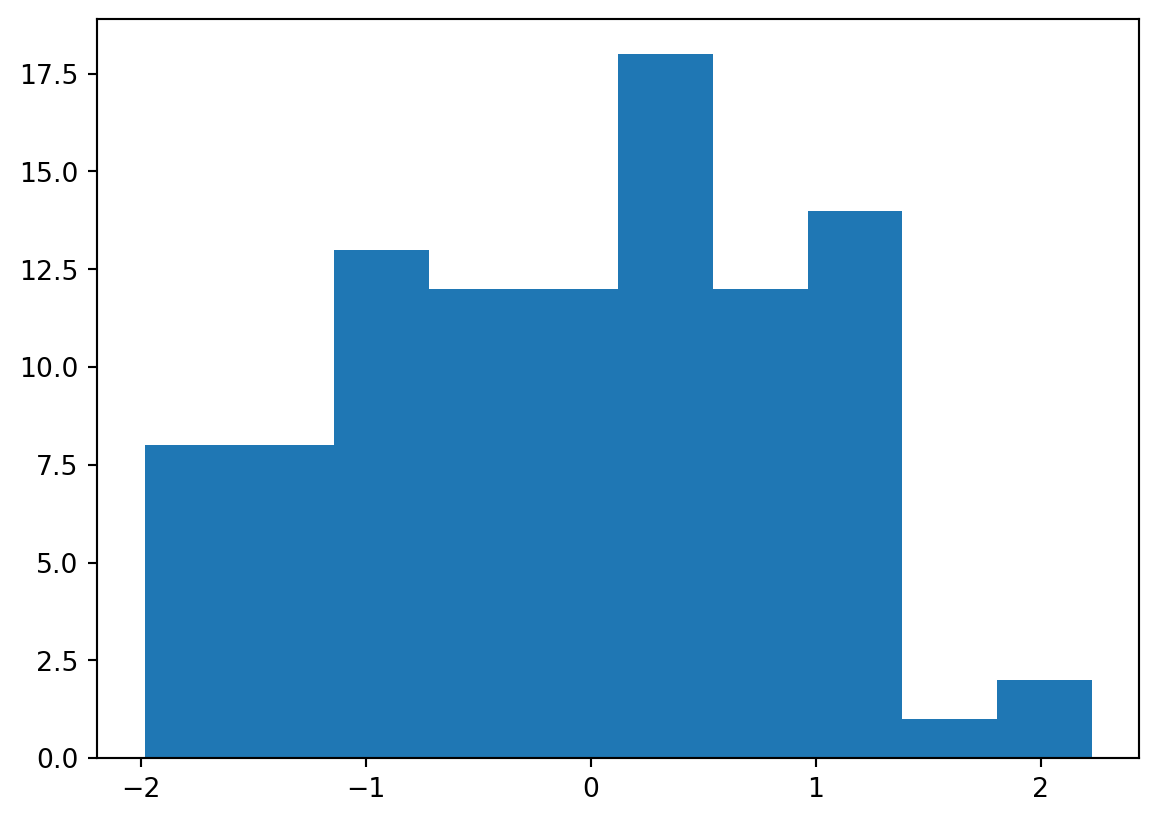
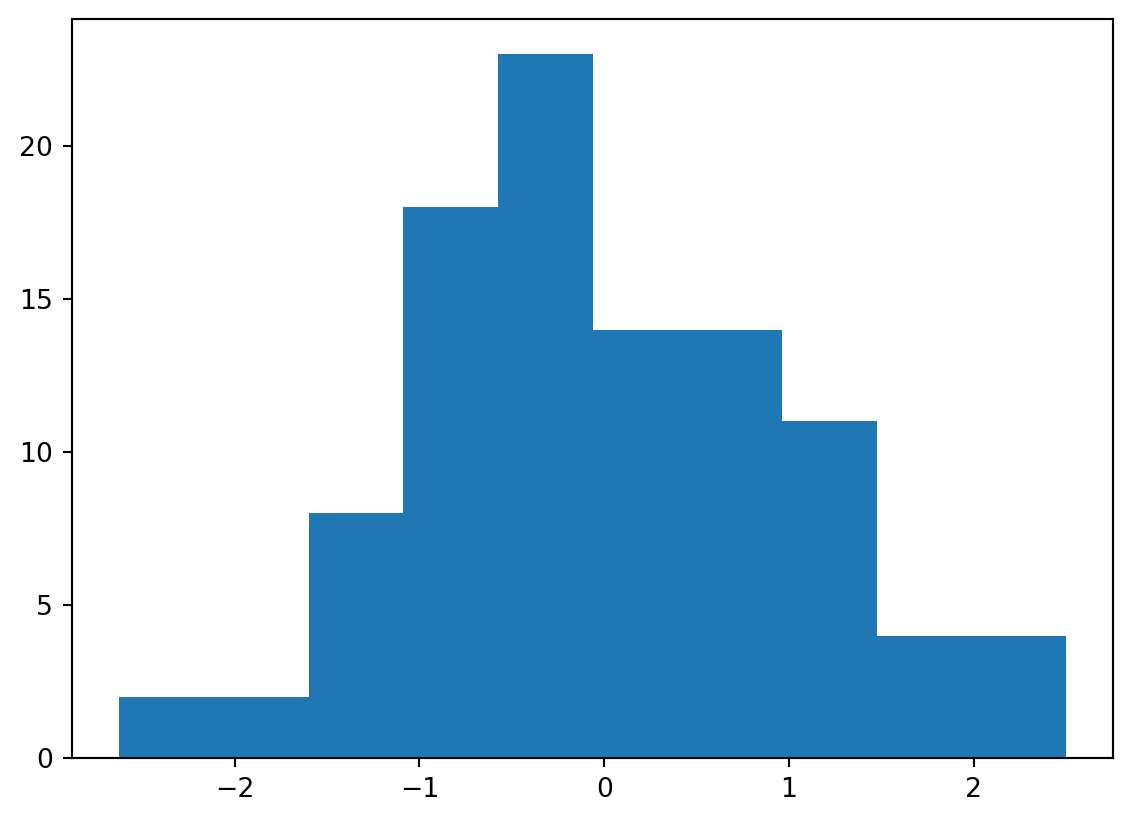
Built site for gh-pages

diff --git a/units/unit1.html b/units/unit1.html
@@ -281,7 +281,7 @@ $$
 <p>This is an example of using qmd as the source document.</p>
 <section id="evaluated-python-code-chunk-with-a-plot" class="level2">
 <h2 class="anchored" data-anchor-id="evaluated-python-code-chunk-with-a-plot">Evaluated Python code chunk, with a plot</h2>
-<div id="15359a95" class="cell" data-execution_count="1">
+<div id="f9e4f604" class="cell" data-execution_count="1">
 <details open="" class="code-fold">
 <summary>Code</summary>
 <div class="sourceCode cell-code" id="cb1"><pre class="sourceCode python code-with-copy"><code class="sourceCode python"><span id="cb1-1"><a href="#cb1-1" aria-hidden="true" tabindex="-1"></a><span class="im">import</span> numpy <span class="im">as</span> np</span>
@@ -299,7 +299,7 @@ $$
 </div>
 </div>
 <div class="cell-output cell-output-display" data-execution_count="1">
-<pre><code>0.04165538654423884</code></pre>
+<pre><code>0.1260703271568116</code></pre>
 </div>
 </div>
 </section>
@@ -361,7 +361,7 @@ Tip with Title
 </div>
 <div id="tabset-1-2" class="tab-pane" role="tabpanel" aria-labelledby="tabset-1-2-tab">
 <p>This code is executed.</p>
-<div id="adaf6627" class="cell" data-execution_count="2">
+<div id="39121637" class="cell" data-execution_count="2">
 <details open="" class="code-fold">
 <summary>Code</summary>
 <div class="sourceCode cell-code" id="cb4"><pre class="sourceCode python code-with-copy"><code class="sourceCode python"><span id="cb4-1"><a href="#cb4-1" aria-hidden="true" tabindex="-1"></a><span class="kw">def</span> fizz_buzz(num):</span>

diff --git a/units/unit3.html b/units/unit3.html
@@ -278,7 +278,7 @@ $$
 <p>This is an example of using qmd as the source document with pdf as one target. I’ve taken out the qmd stuff that doesn’t seem to render to pdf.</p>
 <section id="evaluated-python-code-chunk-with-a-plot" class="level2">
 <h2 class="anchored" data-anchor-id="evaluated-python-code-chunk-with-a-plot">Evaluated Python code chunk, with a plot</h2>
-<div id="eef9897a" class="cell" data-execution_count="1">
+<div id="73dfa3f2" class="cell" data-execution_count="1">
 <details open="" class="code-fold">
 <summary>Code</summary>
 <div class="sourceCode cell-code" id="cb1"><pre class="sourceCode python code-with-copy"><code class="sourceCode python"><span id="cb1-1"><a href="#cb1-1" aria-hidden="true" tabindex="-1"></a><span class="im">import</span> numpy <span class="im">as</span> np</span>
@@ -291,12 +291,12 @@ $$
 <div class="cell-output cell-output-display">
 <div>
 <figure class="figure">
-<p><img src="unit3_files/figure-html/cell-2-output-1.png" width="579" height="411" class="figure-img"></p>
+<p><img src="unit3_files/figure-html/cell-2-output-1.png" width="566" height="411" class="figure-img"></p>
 </figure>
 </div>
 </div>
 <div class="cell-output cell-output-display" data-execution_count="1">
-<pre><code>-0.07064213726821963</code></pre>
+<pre><code>-0.0050831584878195625</code></pre>
 </div>
 </div>
 </section>
